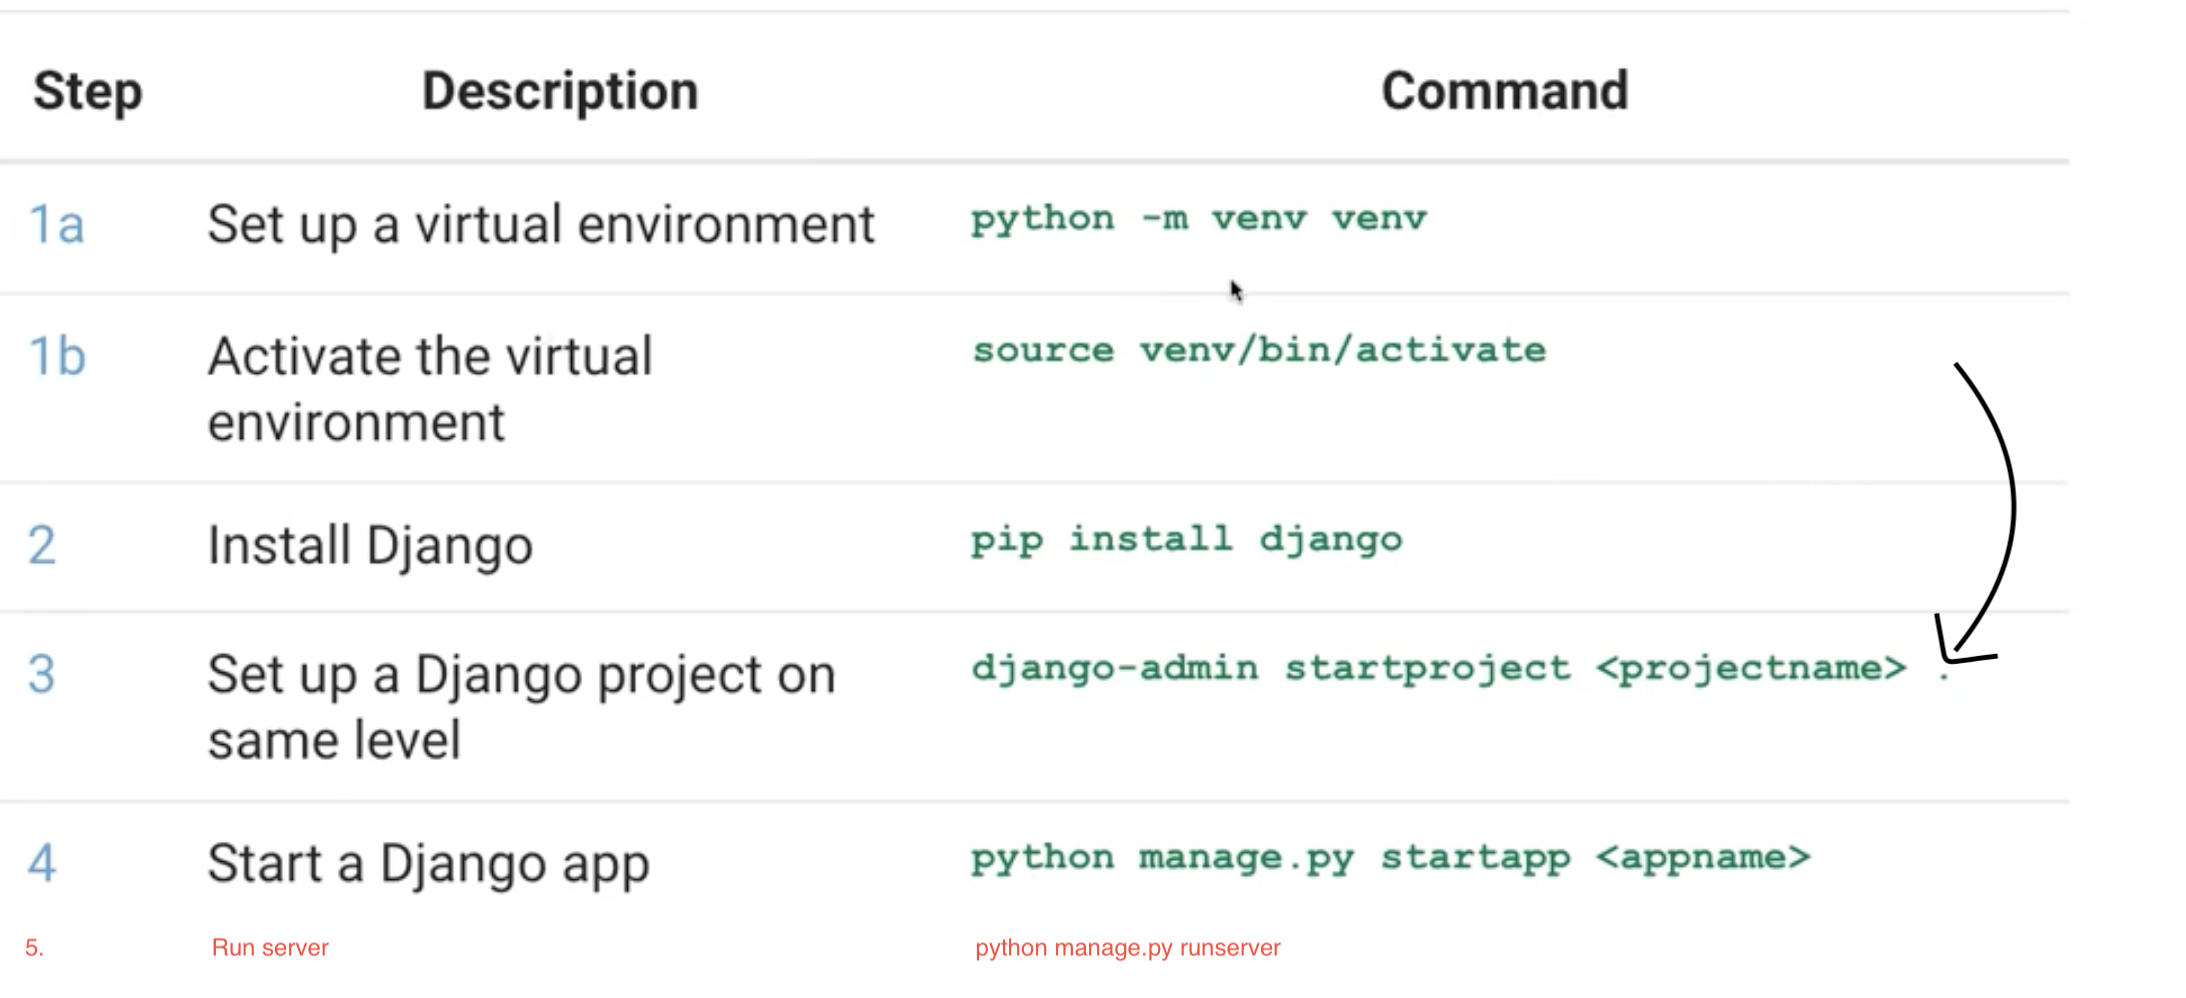
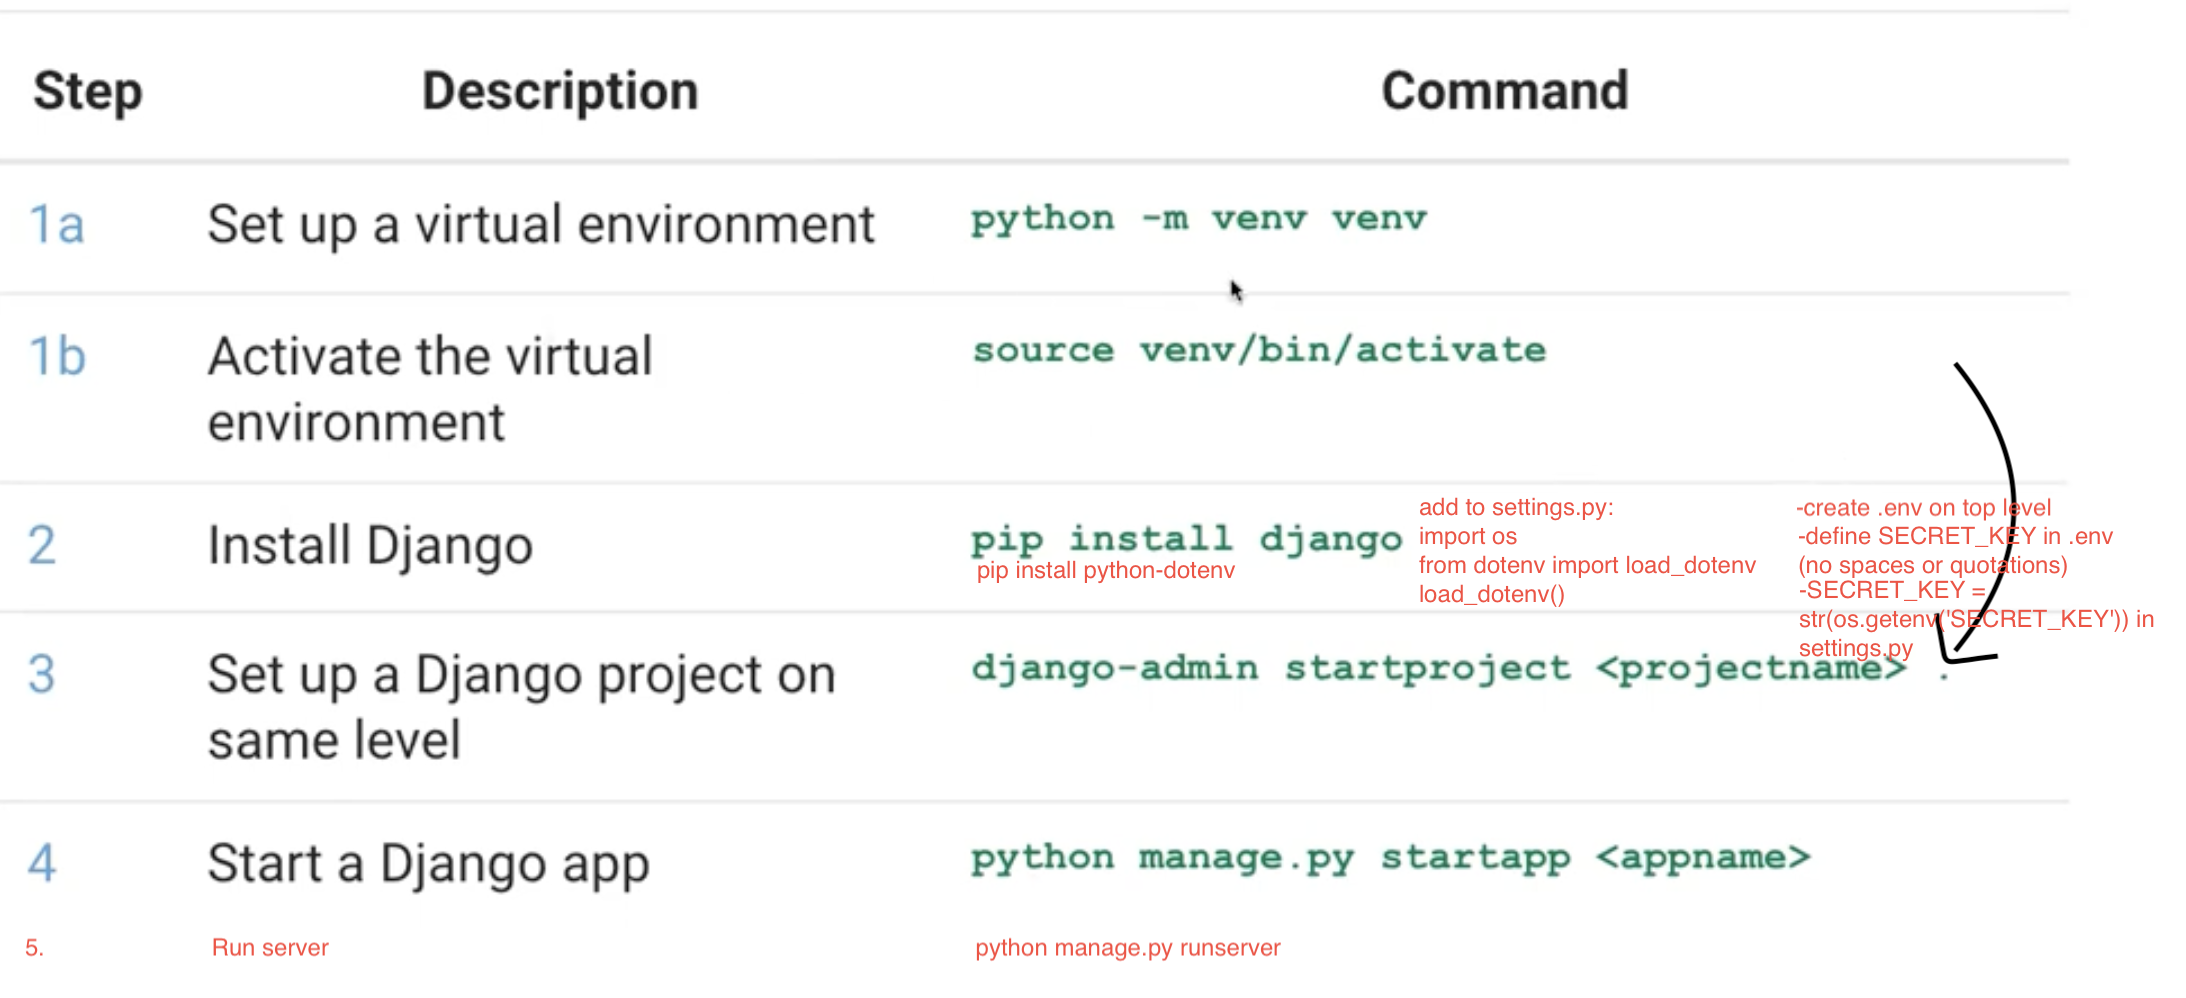
updated .gitignore

Changed region(s): [[0.6532, 0.497, 0.9643, 0.6834], [0.4355, 0.5591, 0.5599, 0.5902]]

diff --git a/python/django/first-django/first_django/settings.py b/python/django/first-django/first_django/settings.py
@@ -9,8 +9,10 @@ https://docs.djangoproject.com/en/5.0/topics/settings/
 For the full list of settings and their values, see
 https://docs.djangoproject.com/en/5.0/ref/settings/
 """
-
+import os
 from pathlib import Path
+from dotenv import load_dotenv
+load_dotenv()
 
 # Build paths inside the project like this: BASE_DIR / 'subdir'.
 BASE_DIR = Path(__file__).resolve().parent.parent
@@ -20,7 +22,7 @@ BASE_DIR = Path(__file__).resolve().parent.parent
 # See https://docs.djangoproject.com/en/5.0/howto/deployment/checklist/
 
 # SECURITY WARNING: keep the secret key used in production secret!
-SECRET_KEY = 'django-insecure-j-^yk^b@7zp6hp6fzq_+yg5aut_**yi*!uh$1u=y-&r#5_&f@y'
+SECRET_KEY = str(os.getenv('SECRET_KEY'))
 
 # SECURITY WARNING: don't run with debug turned on in production!
 DEBUG = True
